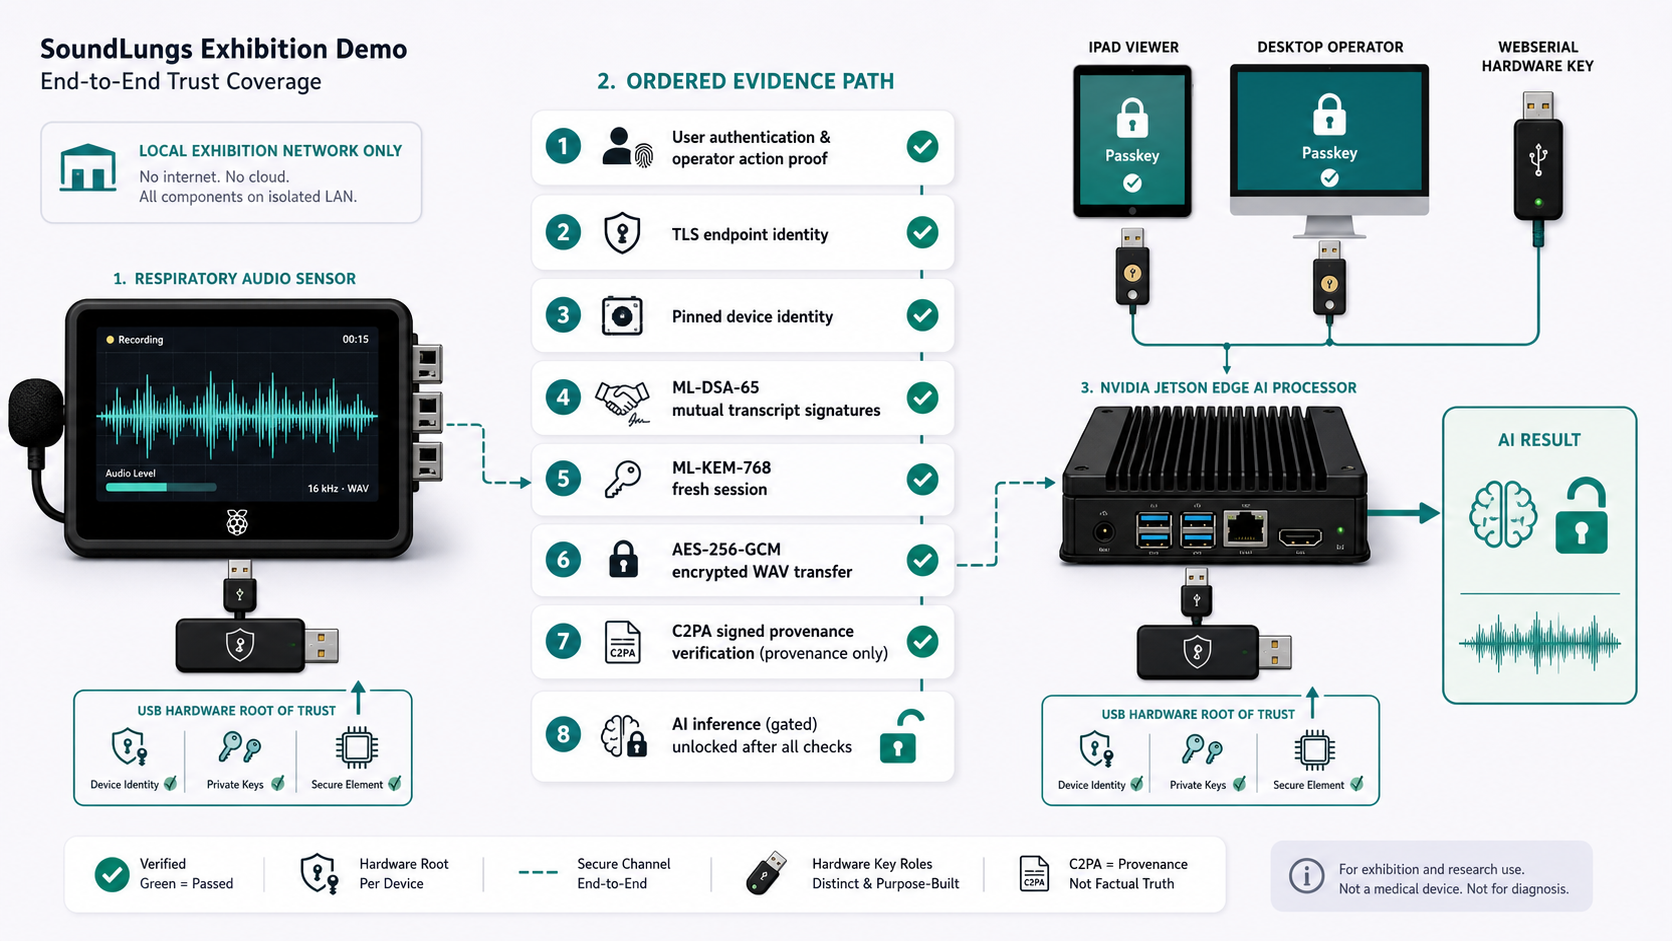
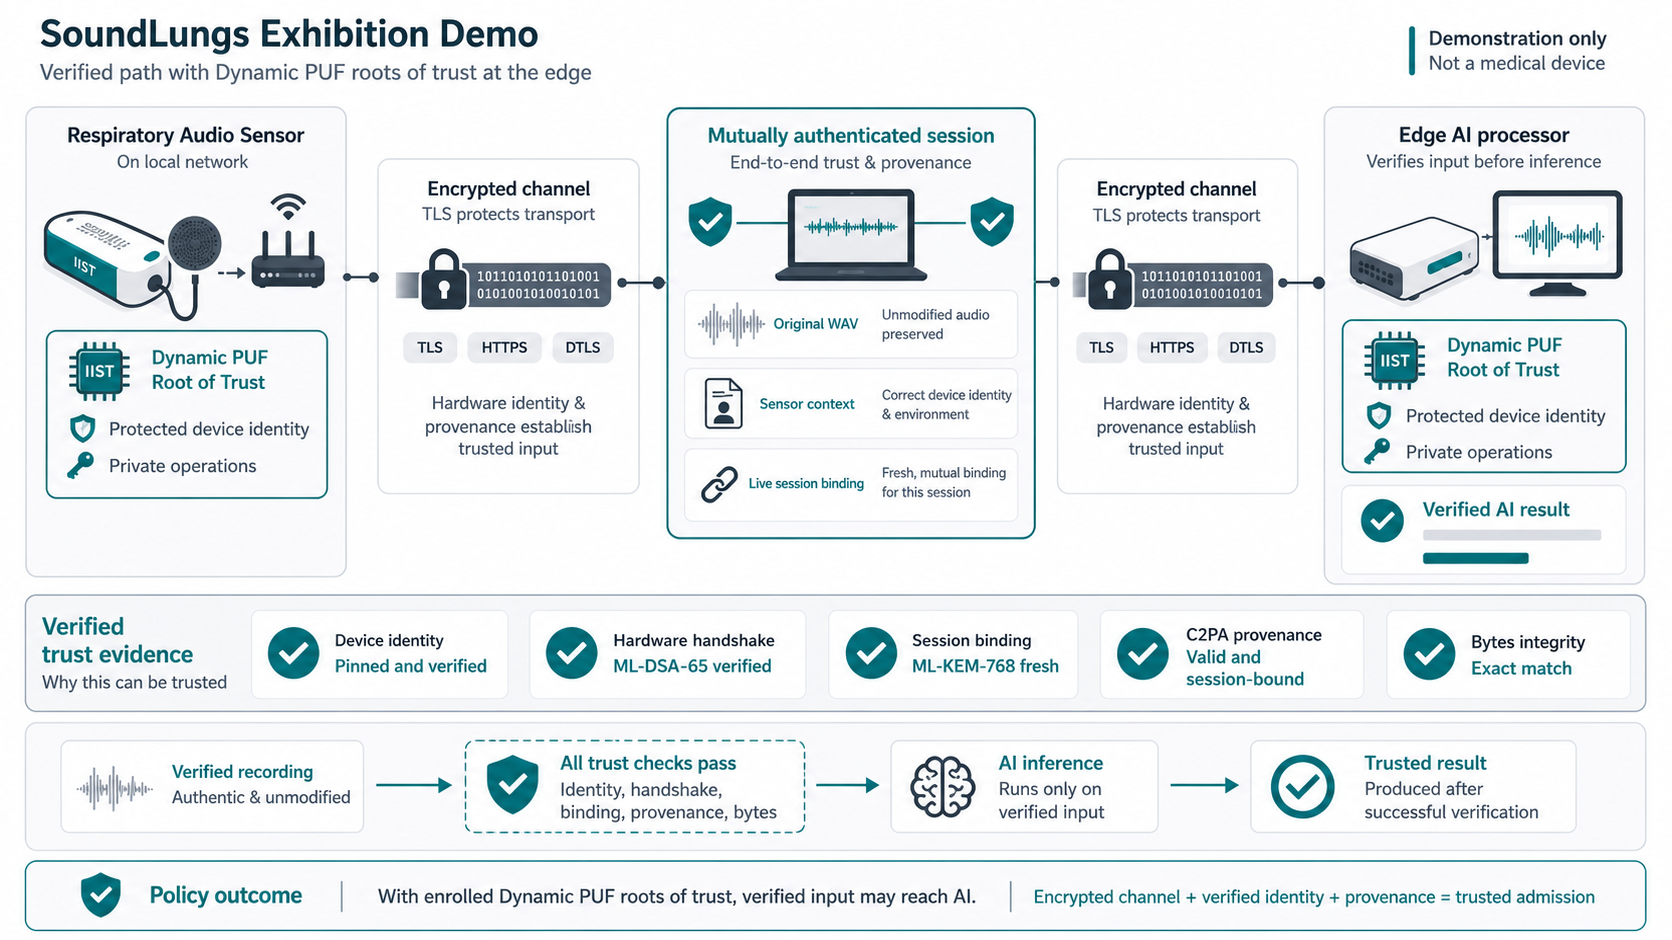
Match secure SoundLungs scenario to failure flow

diff --git a/pages/demo.html b/pages/demo.html
@@ -30,7 +30,7 @@
     </section>
 
     <figure class="scenario-figure scenario-figure-trusted">
-      <img src="../assets/soundlungs-trusted-path.png" alt="SoundLungs end-to-end trust coverage: separate viewer, operator, sensor, and processor identities are verified before encrypted audio with C2PA provenance reaches AI." width="1672" height="941">
+      <img src="../assets/soundlungs-trusted-path.png" alt="SoundLungs end-to-end trust coverage: separate Dynamic PUF roots at the sensor and processor verify identity, session binding, encrypted audio, and C2PA provenance before AI." width="1672" height="940">
       <figcaption><strong>Full trust coverage</strong><span>The network is only the transport. User, action, endpoint, session, payload, and provenance evidence must all pass before inference.</span></figcaption>
     </figure>
 
